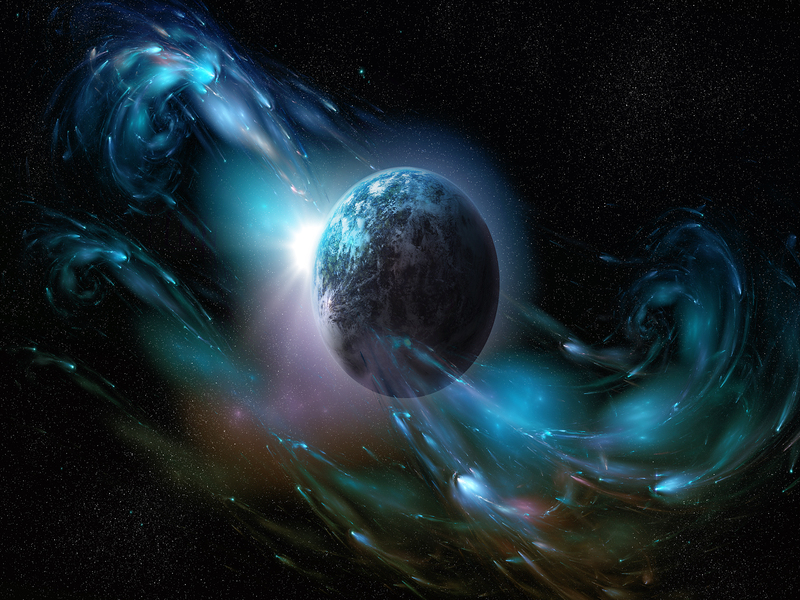
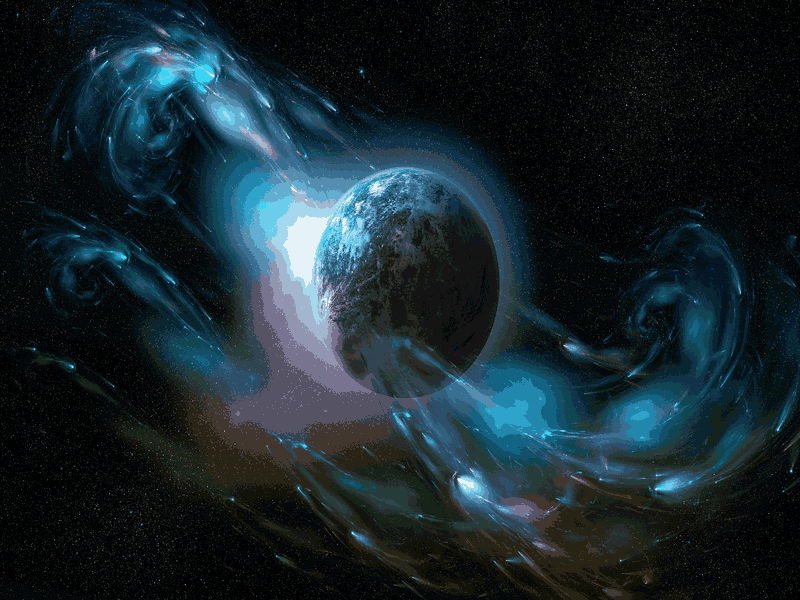
commit 3

diff --git a/FRONT/index.html b/FRONT/index.html
@@ -9,7 +9,6 @@
     <script src="https://code.jquery.com/jquery-3.6.0.min.js" defer></script>
     <link rel="stylesheet" href="style.css">
     <link rel="stylesheet" href="sidenav.js">
-    <link rel="stylesheet" href="./script.js">
     <title>NASA</title>
 </head>
 
@@ -19,7 +18,7 @@
     <div id="banner">
         <div class="logo">
             <img src="/FRONT/images/NASA_logo.svg.png" alt="logo">
-            <div class="fireball"><img src="/FRONT/images/logo.png" alt="planet_feu"></div>
+            <div class="fireball"><img src="/FRONT/images/logo.webp" alt="planet_feu"></div>
         </div>
 
         <nav>
@@ -30,6 +29,7 @@
                 <li><a href="#">Blog</a></li>
                 <li><a href="#">Contact</a></li>
             </ul>
+
             <a href="https://destination-orbite.net/" target="_blank"><i class="fa-solid fa-shop"></i></a>
         </nav>
 
@@ -88,14 +88,11 @@
     <aside>
         <h2>Le cosmos - Les exoplanètes</h2>
         <p> Si notre galaxie compte plusieurs dizaines de milliards de planètes semblables à la Terre,
-            la plupart ne se prêtent pas à l’apparition de la vie. <br>
-            En 1995, la découverte de la première exoplanète
-            une planète située en dehors de notre Système solaire – ouvre considérablement le champ de la recherche
-            scientifique. <br>
-            Aujourd’hui, quelque 4 500 exoplanètes sont recensées, tandis que des appareils de plus en plus
-            sophistiqués permettent
-            d’en étudier les caractéristiques. Réunissent-elles les conditions nécessaires au développement de la
-            vie ?
+            la plupart ne se prêtent pas à l’apparition de la vie. En 1995, la découverte de la première 
+            exoplanète une planète située en dehors de notre Système solaire ouvre considérablement le champ
+            de la recherche scientifique. Aujourd’hui, quelque 4 500 exoplanètes sont recensées, tandis que des 
+            appareils de plus en plus sophistiqués permettent d’en étudier les caractéristiques. 
+            Réunissent-elles les conditions nécessaires au développement de la vie ?
         </p>
     </aside>
 
@@ -103,31 +100,27 @@
 
     <!-- Slider -->
 
-    <div class="carousel">
-        <div class="slide active">
-            <img src="/FRONT/images/caroussel.webp" alt="Slide 1" loading="lazy">
-            <div class="caption"></div>
+    <div class="slider-container">
+        <div class="menu">
+            <label for="slide-dot-1"></label>
+            <label for="slide-dot-2"></label>
+            <label for="slide-dot-3"></label>
+            <label for="slide-dot-4"></label>
         </div>
 
-        <div class="slide">
-            <img src="/FRONT/images/purpleblue.webp" alt="Slide 2" loading="lazy">
-            <div class="caption">
-            </div>
-        </div>
-        <div class="slide">
-            <img src="/FRONT/images/implosion.webp" alt="Slide 3" loading="lazy">
-            <div class="caption">
-            </div>
-        </div>
-        <div class="slide">
-            <img src="/FRONT/images/planete.png" alt="Slide 4" loading="lazy">
-            <div class="caption">
-            </div>
-        </div>
+        <input class="slide-input" id="slide-dot-1" type="radio" name="slides" checked>
+        <img class="slide-img" src="/FRONT/images/caroussel.webp" alt="Slide 1" loading="lazy">
 
-        <button class="prev"><i class="fa-sharp fa-solid fa-arrow-left"></i></button>
-        <button class="next"><i class="fa-solid fa-arrow-right"></i></button>
+        <input class="slide-input" id="slide-dot-2" type="radio" name="slides">
+        <img class="slide-img" src="/FRONT/images/purpleblue.webp" alt="Slide 2" loading="lazy">">
+
+        <input class="slide-input" id="slide-dot-3" type="radio" name="slides">
+        <img class="slide-img" src="/FRONT/images/implosion.webp" alt="Slide 3" loading="lazy">">
+
+        <input class="slide-input" id="slide-dot-4" type="radio" name="slides">
+        <img class="slide-img" src="/FRONT/images/storm.webp" alt="Slide 4" loading="lazy">
     </div>
+
 
     <!-- footer -->
 
@@ -143,17 +136,7 @@
         </div>
     </footer>
 
-    <div id="mySidepanel" class="sidepanel">
-        <a href="javascript:void(0)" class="closebtn" onclick="closeNav()">×</a>
-        <a href="#">Accueil</a>
-        <a href="#">About</a>
-        <a href="#">Services</a>
-        <a href="#">Blog</a>
-        <a href="#">Contact</a>
-        <a href="#"><i class="fa-solid fa-shop"></i></a>
-    </div>
-
-<!--   <script>
+    <script>
         function openNav() {
             document.getElementById("mySidepanel").style.width = "250px";
         }
@@ -161,7 +144,7 @@
         function closeNav() {
             document.getElementById("mySidepanel").style.width = "0";
         }
-    </script> -->
+    </script>
 </body>
 
 </html>

diff --git a/FRONT/css/5-carousel.css b/FRONT/css/5-carousel.css
@@ -1,68 +1,61 @@
-.carousel {
-	position: relative;
-	width: 95%;
-	margin: auto;
-	margin-bottom: 90px;
-	height: 600px;
-	overflow: hidden;
-	border: 8px solid purple;
-  }
+ /* slider */
 
-  .slide.active {
-	opacity: 1;
+.slider-container {
+	max-width: 800px;
+	position: relative;
+	margin: 30px auto 50px;
+	height: 350px;
+	overflow: hidden;
+	background: white;	
   }
   
-  .slide {
+  .menu {
+	position: absolute;
+	left: 0;
+	z-index: 11;
+	width: 100%;
+	bottom: -56px;
+    font-size: 60px;
+	text-align: center;
+  }
+
+  .menu label {
+	cursor: pointer;
+	display: inline-block;
+	width: 10px;
+	height: 10px;
+	background: #ccc;
+	border-radius: 50px;
+	margin: 0 0.2em 1em;	
+  }
+
+  .menu label:hover,
+  .menu label:focus {
+	background: purple;
+  }
+
+  .slide-input {
+	opacity: 0;
+  }
+
+  .slide-img {
+	width: 100%;
+	height: 300px;
 	position: absolute;
 	top: 0;
+	left: 100%;
+	z-index: 10;
+	transition: left 0s 0.75s;
+	border-top: 8px solid purple; border-left: 8px solid purple; border-right: 8px solid purple;
+  }
+
+  label{
+	color: purple;
+  }
+
+  [id^="slide"]:checked + .slide-img {
 	left: 0;
-	width: 100%;
-	height: 100%;
-	opacity: 0;
-	transition: opacity 1s ease-in-out;
-  }  
-  
- .slide img {
-	width: 100%;
-	height: 100%;	
+	z-index: 100;
+	transition: left 0.65s ease-out;
   }
-  
-  .caption {
-	position: absolute;
-	bottom: 0;
-	left: 0;
-	width: 100%;
-	background-color: rgba(0, 0, 0, 0.5);
-	color: #fff;
-	padding: 10px;
-  }
-  
-  .prev, .next {
-	position: absolute;
-	top: 50%;
-	transform: translateY(-50%);
-	background-color: #fff;
-	border: none;
-	padding: 10px;
-	cursor: pointer;
-	font-size: 20px;
-  }
-  
-  .prev {
-	left: 1%;
-  }
-  
-  .next {
-	right: 1%;	
-  }
-  
-     /* media queries */
-
-@media (max-width: 480px) {
-
-.prev, .next{
-	width: 10%;
-}
-
-
-}
+ 

diff --git a/FRONT/css/4-aside.css b/FRONT/css/4-aside.css
@@ -1,5 +1,5 @@
 aside {
-  background: url(/FRONT/images/background-center.webp) no-repeat;
+  background: url(/FRONT/images/background-center.webp);
   background-position: 65%;
   width: 95%;
   height: 300px;
@@ -23,12 +23,18 @@ aside p {
 /* media queries */
 
 @media (max-width: 980px) {
+  aside {
+    height: 390px;
+  }
+
   aside h2 {
     font-size: 22px;
+    padding-top: -30px;
   }
 
   aside p {
-    font-size: 15px;
+    font-size: 17px;
+    line-height: 1.5;
   }
 }
 
@@ -36,7 +42,7 @@ aside p {
   aside {
     margin: 98px auto 98px;
     width: 90%;
-    height: 450px;
+    height: 530px;
   }
 
   aside h2 {
@@ -47,7 +53,7 @@ aside p {
     font-size: 17px;
   }
 
-  body > hr {    
-    margin: -40px auto 60px;    
+  body > hr {
+    margin: -40px auto 60px;
   }
 }

diff --git a/FRONT/css/3-container.css b/FRONT/css/3-container.css
@@ -14,7 +14,7 @@
 }
 
 .card1 {
-  background: url(/FRONT/images/blackhole.webp) no-repeat;
+  background: url(/FRONT/images/blackhole.webp);
   height: 215px;
   margin: auto;
   width: 100%;
@@ -30,7 +30,7 @@
 }
 
 .card2 {
-  background: url(/FRONT/images/meteor.webp) no-repeat;
+  background: url(/FRONT/images/meteor.webp);
   height: 215px;
   width: 100%;
 }
@@ -44,7 +44,7 @@
 }
 
 .card3 {
-  background: url(/FRONT/images/cosmos.webp) no-repeat;
+  background: url(/FRONT/images/cosmos.webp);
   height: 215px;
   width: 100%;
 }
@@ -58,7 +58,7 @@
 }
 
 .card4 {
-  background: url(/FRONT/images/Earth.webp) no-repeat;
+  background: url(/FRONT/images/Earth.webp);
   height: 215px;
   width: 100%;
 }

diff --git a/FRONT/css/2-banner.css b/FRONT/css/2-banner.css
@@ -10,7 +10,7 @@
   float: left;
 }
 
-.logo span{
+.logo span {
   display: none;
 }
 
@@ -39,20 +39,18 @@
   margin-top: -91px;
   font-size: 30px;
 }
- 
-.openbtn {
-	visibility: hidden;	
-}
 
+.openbtn {
+  visibility: hidden;
+}
 
 /* media queries */
 
 @media (max-width: 980px) {
+  #banner a {
+    display: flex;
+    margin-top: 120px;
+  }
 
-#banner a{
-  display: flex;
-  margin-top: 120px;
-}
-
-
+ 
 }

diff --git a/FRONT/css/1-global.css b/FRONT/css/1-global.css
@@ -12,7 +12,7 @@
 }
 
 body {
-	background-image: url(/FRONT/images/planete.png);
+	background-image: url(/FRONT/images/planete.webp);
 	background-size: cover;
 	background-position: center left;    
 }

diff --git a/FRONT/style.css b/FRONT/style.css
@@ -20,6 +20,8 @@
   visibility: hidden;
 }
 
+
+
 /* media queries 980px */
 
 @media (max-width: 980px) {
